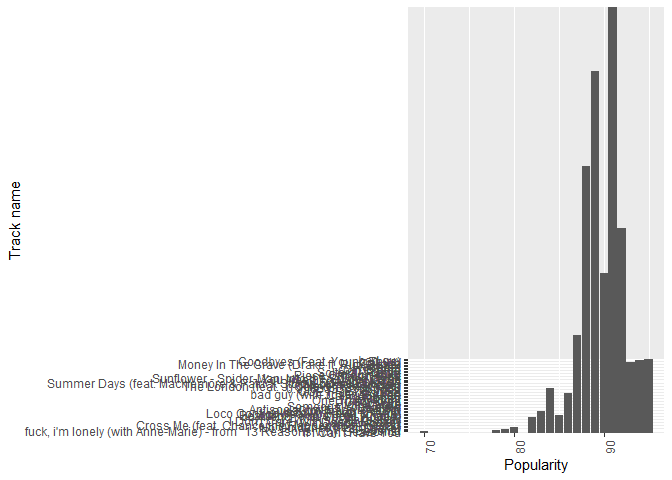
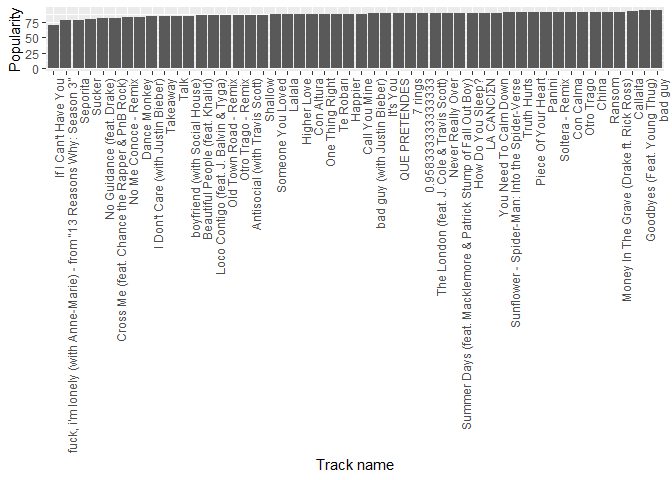
fix

diff --git a/index.md b/index.md
@@ -118,9 +118,9 @@ code span.wa { color: #60a0b0; font-weight: bold; font-style: italic; } /* Warni
 <div class="sourceCode" id="cb3"><pre class="sourceCode r"><code class="sourceCode r"><a class="sourceLine" id="cb3-1" title="1"><span class="co"># Plotting by popularity</span></a>
 <a class="sourceLine" id="cb3-2" title="2">top50<span class="op">$</span>Track.Name&lt;-<span class="kw">factor</span>(top50<span class="op">$</span>Track.Name,<span class="dt">levels=</span>top50<span class="op">$</span>Track.Name[<span class="kw">order</span>(top50<span class="op">$</span>Popularity)])</a>
 <a class="sourceLine" id="cb3-3" title="3"></a>
-<a class="sourceLine" id="cb3-4" title="4"><span class="kw">ggplot</span>(top50,<span class="kw">aes</span>(<span class="dt">y=</span>top50<span class="op">$</span>Track.Name,<span class="dt">x=</span>top50<span class="op">$</span>Popularity)) <span class="op">+</span><span class="st"> </span></a>
-<a class="sourceLine" id="cb3-5" title="5"><span class="st">  </span><span class="kw">xlab</span>(<span class="st">&quot;Popularity&quot;</span>) <span class="op">+</span><span class="st"> </span></a>
-<a class="sourceLine" id="cb3-6" title="6"><span class="st">  </span><span class="kw">ylab</span>(<span class="st">&quot;Track name&quot;</span>) <span class="op">+</span><span class="st"> </span></a>
+<a class="sourceLine" id="cb3-4" title="4"><span class="kw">ggplot</span>(top50,<span class="kw">aes</span>(<span class="dt">x=</span>top50<span class="op">$</span>Track.Name,<span class="dt">y=</span>top50<span class="op">$</span>Popularity)) <span class="op">+</span><span class="st"> </span></a>
+<a class="sourceLine" id="cb3-5" title="5"><span class="st">  </span><span class="kw">xlab</span>(<span class="st">&quot;Track name&quot;</span>) <span class="op">+</span><span class="st"> </span></a>
+<a class="sourceLine" id="cb3-6" title="6"><span class="st">  </span><span class="kw">ylab</span>(<span class="st">&quot;Popularity&quot;</span>) <span class="op">+</span><span class="st"> </span></a>
 <a class="sourceLine" id="cb3-7" title="7"><span class="st">  </span><span class="kw">geom_bar</span>(<span class="dt">stat=</span><span class="st">&quot;identity&quot;</span>) <span class="op">+</span></a>
 <a class="sourceLine" id="cb3-8" title="8"><span class="st">  </span><span class="kw">theme</span>(<span class="dt">axis.text.x=</span><span class="kw">element_text</span>(<span class="dt">angle=</span><span class="dv">90</span>,<span class="dt">hjust=</span><span class="dv">1</span>))</a></code></pre></div>
 <img src="index_files/figure-html/popularity_plot-1.png" /><!-- -->
